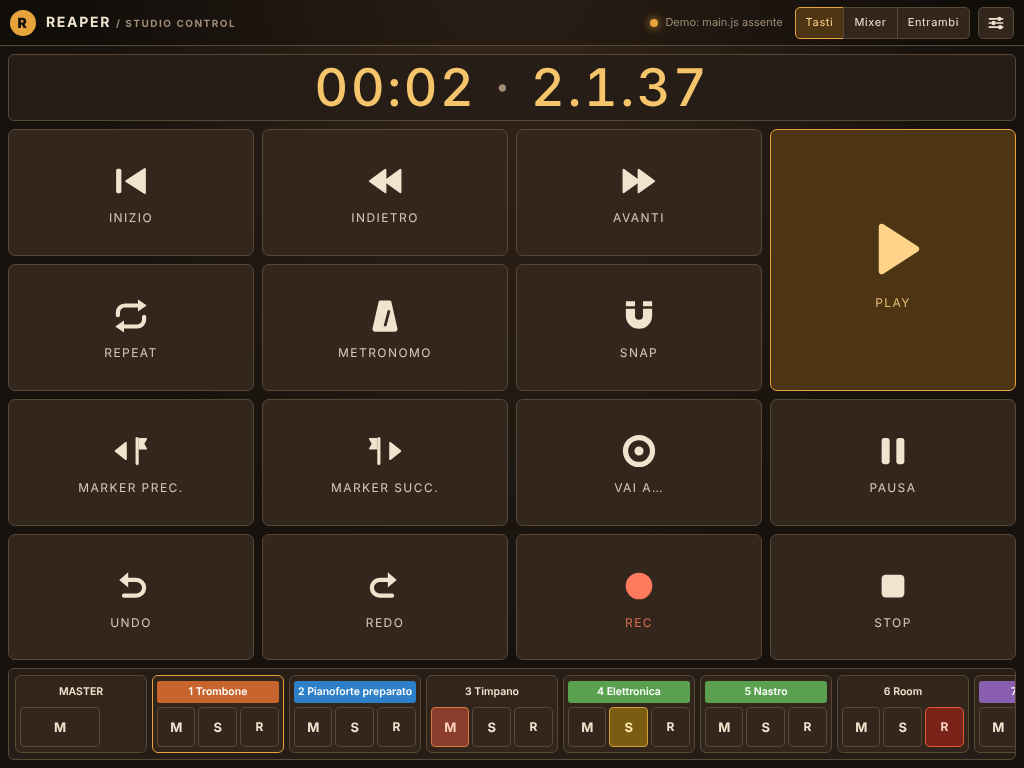
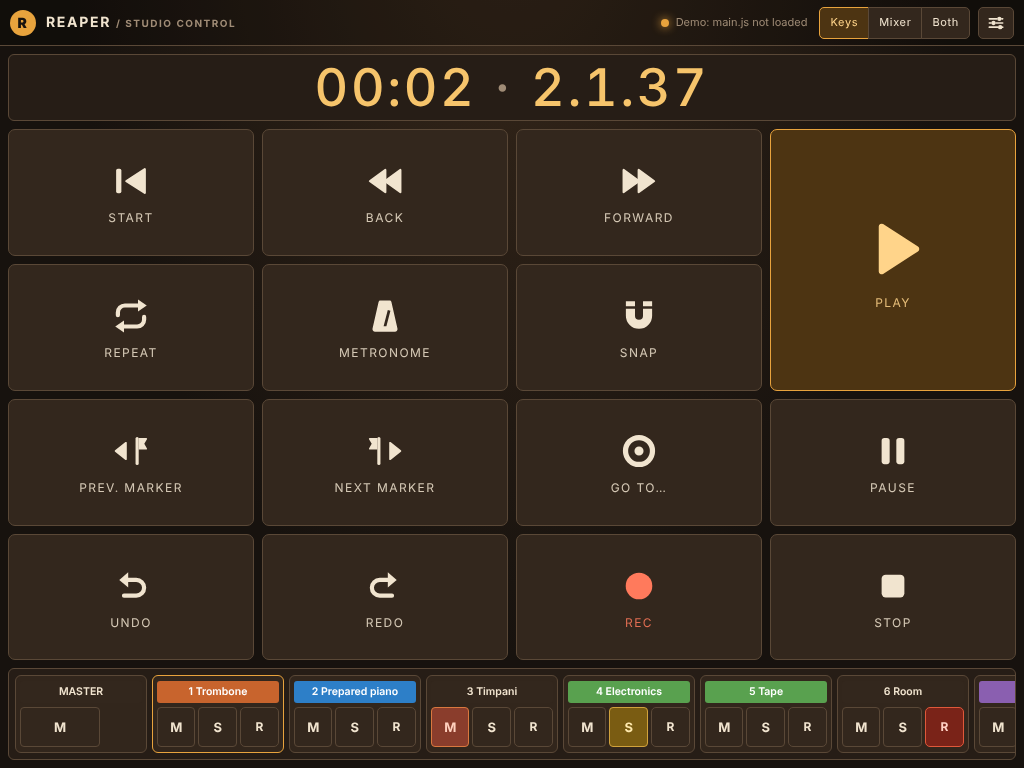
Add English/Italian language selector, English by default
The interface was Italian only. Strings now live in a STR table, the
language is chosen in Settings and stored with the configuration.
Screenshots regenerated, README and touch tests updated.

Claude-Session: https://claude.ai/code/session_01EFGUDhjXSJhFr7wHMCkzkm

diff --git a/reaper-studio-control.html b/reaper-studio-control.html
@@ -1,5 +1,5 @@
 <!doctype html>
-<html lang="it">
+<html lang="en">
 <head>
 <meta charset="utf-8">
 <meta name="viewport" content="width=device-width,initial-scale=1,maximum-scale=1,user-scalable=no,viewport-fit=cover">
@@ -224,9 +224,9 @@ body.view-both .lbl{letter-spacing:.03em}
 <header class="top">
  <div class="brand"><div class="brandmark">R</div><div class="brandtx">REAPER <span class="sub">/ STUDIO CONTROL</span></div></div>
  <div class="topright">
-  <span class="dot" id="connDot"></span><span class="conntext" id="connText">In attesa di REAPER</span>
-  <div class="seg" id="viewSeg"><button data-view="keys">Tasti</button><button data-view="mixer">Mixer</button><button data-view="both">Entrambi</button></div>
-  <button class="iconbtn" id="gearBtn" title="Impostazioni"><svg viewBox="0 0 24 24"><path d="M4 7h9M19 7h1M4 12h2M12 12h8M4 17h10M20 17h0" fill="none" stroke="currentColor" stroke-width="2" stroke-linecap="round"/><circle cx="16" cy="7" r="2.6"/><circle cx="9" cy="12" r="2.6"/><circle cx="17" cy="17" r="2.6"/></svg></button>
+  <span class="dot" id="connDot"></span><span class="conntext" id="connText">Waiting for REAPER</span>
+  <div class="seg" id="viewSeg"><button data-view="keys">Keys</button><button data-view="mixer">Mixer</button><button data-view="both">Both</button></div>
+  <button class="iconbtn" id="gearBtn" title="Settings"><svg viewBox="0 0 24 24"><path d="M4 7h9M19 7h1M4 12h2M12 12h8M4 17h10M20 17h0" fill="none" stroke="currentColor" stroke-width="2" stroke-linecap="round"/><circle cx="16" cy="7" r="2.6"/><circle cx="9" cy="12" r="2.6"/><circle cx="17" cy="17" r="2.6"/></svg></button>
  </div>
 </header>
 <main>
@@ -243,10 +243,10 @@ body.view-both .lbl{letter-spacing:.03em}
 
 <div class="sheet" id="settings"><div class="card" id="settingsCard"></div></div>
 <div class="sheet" id="gotoDlg"><div class="dlg">
- <strong>Vai a…</strong>
+ <strong>Go to…</strong>
  <input type="text" id="gotoIn" autocomplete="off" autocapitalize="off" autocorrect="off" spellcheck="false" placeholder="1:02.500">
- <div class="note">Tempo (1:02.500) oppure battuta (12.1.00).</div>
- <div class="btnrow"><button class="tbtn active" id="gotoOk">Vai</button><button class="tbtn" id="gotoNo">Annulla</button></div>
+ <div class="note">Time (1:02.500) or bar position (12.1.00).</div>
+ <div class="btnrow"><button class="tbtn active" id="gotoOk">Go</button><button class="tbtn" id="gotoNo">Cancel</button></div>
 </div></div>
 
 <script>
@@ -260,26 +260,31 @@ body.view-both .lbl{letter-spacing:.03em}
    Per aggiungere un'azione al menu basta una riga qui e, se serve, un'icona in ICON.
    ============================================================ */
 var CAT={
- start:{id:40042,l:'Inizio'},
- end:{id:40043,l:'Fine'},
+ start:{id:40042,l:'Start'},
+ end:{id:40043,l:'End'},
  stop:{id:40667,l:'Stop'},
- pause:{id:1008,l:'Pausa'},
+ pause:{id:1008,l:'Pause'},
  play:{id:1007,l:'Play'},
  playstop:{id:40044,l:'Play/Stop'},
  rec:{id:1013,l:'Rec'},
- back:{id:41043,l:'Indietro',t:'Cursore indietro di una battuta'},
- fwd:{id:41042,l:'Avanti',t:'Cursore avanti di una battuta'},
+ back:{id:41043,l:'Back',t:'Move the cursor back one bar'},
+ fwd:{id:41042,l:'Forward',t:'Move the cursor forward one bar'},
  repeat:{id:1068,l:'Repeat'},
  undo:{id:40029,l:'Undo'},
  redo:{id:40030,l:'Redo'},
- metro:{id:40364,l:'Metronomo',tg:1},
+ metro:{id:40364,l:'Metronome',tg:1},
  snap:{id:1157,l:'Snap',tg:1},
- mprev:{id:40172,l:'Marker prec.'},
- mnext:{id:40173,l:'Marker succ.'},
- addmarker:{id:40157,l:'Nuovo marker'},
- save:{id:40026,l:'Salva'},
- 'goto':{id:0,l:'Vai a…'}
+ mprev:{id:40172,l:'Prev. marker'},
+ mnext:{id:40173,l:'Next marker'},
+ addmarker:{id:40157,l:'New marker'},
+ save:{id:40026,l:'Save'},
+ 'goto':{id:0,l:'Go to…'}
 };
+/* etichette e suggerimenti in italiano: le voci mancanti restano uguali all'inglese */
+var IT={start:'Inizio',end:'Fine',pause:'Pausa',back:'Indietro',fwd:'Avanti',metro:'Metronomo',mprev:'Marker prec.',mnext:'Marker succ.',addmarker:'Nuovo marker',save:'Salva','goto':'Vai a…'};
+var ITT={back:'Cursore indietro di una battuta',fwd:'Cursore avanti di una battuta'};
+function catL(a){return cfg.lang==='it'&&IT[a]?IT[a]:CAT[a].l;}
+function catT(a){return cfg.lang==='it'&&ITT[a]?ITT[a]:(CAT[a].t||catL(a));}
 var MARKER='<path d="M9.6 7.3v9.4a.5.5 0 0 1-.78.42L2.9 12.4a.5.5 0 0 1 0-.8l5.92-4.72a.5.5 0 0 1 .78.42z"/><rect x="14.6" y="4" width="1.8" height="16" rx=".9"/><path d="M16.4 4.6h4.4a.4.4 0 0 1 .33.63L19.6 7.9l1.53 2.67a.4.4 0 0 1-.33.6h-4.4z"/>';
 var START='<rect x="3.5" y="5" width="3" height="14" rx="1"/><path d="M20.5 5.2v13.6a.6.6 0 0 1-.95.5L9 12.5a.6.6 0 0 1 0-1l10.55-6.8a.6.6 0 0 1 .95.5z"/>';
 var FLIP='<g transform="translate(24 0) scale(-1 1)">';
@@ -317,7 +322,7 @@ function defaults(){return{
  counter:'both',    /* both | time | beat */
  sw:'m',            /* larghezza strisce: s | m | l */
  maxdb:12,          /* fondo scala del fader: 12 oppure 6 */
- ver:2,master:1,meters:1,pan:1,arm:1,colors:1,hidden:0,
+ ver:2,lang:'en',master:1,meters:1,pan:1,arm:1,colors:1,hidden:0,
  cols:4,strip:1,recConfirm:0,
  keys:[{a:'start'},{a:'back'},{a:'fwd'},{a:'play',big:1},{a:'repeat'},{a:'metro'},{a:'snap'},
        {a:'mprev'},{a:'mnext'},{a:'goto'},{a:'pause'},{a:'undo'},{a:'redo'},{a:'rec'},{a:'stop'}]
@@ -330,6 +335,34 @@ function loadCfg(){var d=defaults(),s,k;try{s=JSON.parse(localStorage.getItem(LS
 function mergeCfg(d,s){var k;if(s&&typeof s==='object'){for(k in d)if(d.hasOwnProperty(k)&&s[k]!==undefined&&typeof s[k]===typeof d[k])d[k]=s[k];}
  if(!(d.keys instanceof Array)||!d.keys.length)d.keys=defaults().keys;return d;}
 function saveCfg(){try{localStorage.setItem(LS,JSON.stringify(cfg));}catch(e){}}
+
+/* testi dell'interfaccia: [inglese, italiano]. Per aggiungere una lingua basta una terza voce in ogni riga. */
+var STR={
+ waiting:['Waiting for REAPER','In attesa di REAPER'],connected:['Connected to REAPER','Collegato a REAPER'],
+ demo:['Demo: main.js not loaded','Demo: main.js assente'],noreply:['REAPER not responding','REAPER non risponde'],
+ vKeys:['Keys','Tasti'],vMixer:['Mixer','Mixer'],vBoth:['Both','Entrambi'],
+ settings:['Settings','Impostazioni'],close:['Close','Chiudi'],
+ gotoT:['Go to…','Vai a…'],gotoNote:['Time (1:02.500) or bar position (12.1.00).','Tempo (1:02.500) oppure battuta (12.1.00).'],go:['Go','Vai'],cancel:['Cancel','Annulla'],
+ noTracks:['No tracks to show.','Nessuna traccia da mostrare.'],track:['Track ','Traccia '],
+ panL:['Pan, left channel','Pan del canale sinistro'],panR:['Pan, right channel','Pan del canale destro'],pan:['Pan','Pan'],balance:['Balance','Balance'],width:['Width','Width'],
+ actionT:['Action ','Azione '],
+ secLook:['Appearance','Aspetto'],lang:['Language','Lingua'],view:['View','Vista'],theme:['Theme','Tema'],
+ themeAmber:['Tape Amber','Tape Ambra'],themeGraphite:['Graphite','Grafite'],themeLight:['Light','Chiaro'],
+ counter:['Counter','Contatore'],cBoth:['Time and bars','Tempo e battute'],cTime:['Time only','Solo tempo'],cBeat:['Bars only','Solo battute'],
+ secMixer:['Mixer','Mixer'],stripW:['Strip width','Larghezza delle strisce'],narrow:['Narrow','Stretta'],medium:['Medium','Media'],wide:['Wide','Larga'],
+ faderMax:['Fader maximum','Fondo scala del fader'],master:['Master','Master'],meters:['Meters','Meter'],panCtl:['Pan controls','Controlli di pan'],
+ armBtn:['Rec arm button','Pulsante Rec arm'],colors:['Track colours','Colori delle tracce'],hidden:['Show tracks hidden from the mixer','Mostra le tracce nascoste dal mixer'],
+ secKeypad:['Keypad','Tastierino'],cols:['Columns','Colonne'],strip:['M / S / R track strip below the keys','Striscia tracce M / S / R sotto i tasti'],recConf:['Rec needs a second tap','Rec richiede un secondo tocco'],
+ secKeys:['Keys','Tasti'],custom:['Custom action…','Azione personalizzata…'],big:['Large','Grande'],label:['Label','Etichetta'],
+ cmdNote:['Find the Command ID in REAPER\'s action list: right-click the action and choose "Copy selected action command ID". Script IDs, which start with an underscore, work too.',
+  'Il Command ID si legge in REAPER, nella lista delle azioni (clic destro sull\'azione, «Copy selected action command ID»). Funzionano anche gli ID testuali degli script, che cominciano con il trattino basso.'],
+ addKey:['Add a key','Aggiungi un tasto'],resetKeys:['Reset the keys','Ripristina i tasti'],
+ secConfig:['Configuration','Configurazione'],
+ cfgNote:['Settings are stored on this device. To move them to another one, copy the text below and paste it into the same box on the other device.',
+  'Le impostazioni restano su questo dispositivo. Per portarle su un altro, copiare il testo qui sotto e incollarlo nella stessa casella dell\'altro dispositivo.'],
+ applyText:['Apply the text','Applica il testo'],resetAll:['Reset everything','Ripristina tutto'],fullscreen:['Full screen','Schermo intero'],badText:['Invalid text: ','Testo non valido: ']
+};
+function T(k){var s=STR[k];return s?s[cfg.lang==='it'?1:0]:k;}
 
 /* ============================================================
    3. UTILITA'
@@ -360,9 +393,9 @@ function meterPct(tenthDb){return clamp((tenthDb/10+60)/66*100,0,100);}   /* sca
    4. COMUNICAZIONE CON REAPER (main.js del Web Control)
    ============================================================ */
 var demo=(typeof wwr_req!=='function');
-var lastReply=0,connOk=null,polled=[],needReload=false,demoTimers=[];
+var lastReply=0,connOk=null,connKey='waiting',polled=[],needReload=false,demoTimers=[];
 function cmd(s){if(demo)demoCmd(String(s));else wwr_req(String(s));}
-function setConn(ok,msg){if(connOk===ok&&$('connText').textContent===msg)return;connOk=ok;tog($('connDot'),'ok',ok);$('connText').textContent=msg;}
+function setConn(ok,key){if(connOk===ok&&connKey===key)return;connOk=ok;connKey=key;tog($('connDot'),'ok',ok);$('connText').textContent=T(key);}
 
 function tracksWanted(){return cfg.view!=='keys'||cfg.strip;}
 function setupPolling(){
@@ -387,7 +420,7 @@ function setupPolling(){
 var ps=0,rep=false,cmdState={};
 window.wwr_onreply=function(res){
  var lines=res.split('\n'),i,t,list=null;
- lastReply=now();setConn(true,demo?'Demo: main.js assente':'Collegato a REAPER');
+ lastReply=now();setConn(true,demo?'demo':'connected');
  for(i=0;i<lines.length;i++){t=lines[i].split('\t');
   if(t[0]==='TRANSPORT'&&t.length>4){ps=+t[1];rep=(+t[3])!==0;setCounter(+t[2],t[5]||'');}
   else if(t[0]==='TRACK'&&t.length>4){(list||(list=[])).push({id:+t[1],name:unesc(t[2]||''),flags:+t[3]||0,vol:+t[4]||0,pan:+t[5]||0,
@@ -397,7 +430,7 @@ window.wwr_onreply=function(res){
  refreshKeys();
  if(list)updateTracks(list);   /* la lista arriva intera: le tracce cancellate spariscono da sole */
 };
-setInterval(function(){if(!demo&&lastReply&&now()-lastReply>3000)setConn(false,'REAPER non risponde');},1000);
+setInterval(function(){if(!demo&&lastReply&&now()-lastReply>3000)setConn(false,'noreply');},1000);
 
 /* ============================================================
    5. CONTATORE
@@ -415,8 +448,8 @@ function setCounter(sec,beat){
    ============================================================ */
 var keysEl=$('keys'),miniEl=$('miniT'),recAsk=0;
 function keyInfo(k){
- if(k.a==='custom')return{a:'custom',id:k.id||'',l:k.l||k.id||'?',ic:'custom',t:'Azione '+(k.id||'')};
- var c=CAT[k.a]||CAT.stop;return{a:CAT[k.a]?k.a:'stop',id:c.id,l:c.l,ic:CAT[k.a]?k.a:'stop',t:c.t||c.l};
+ if(k.a==='custom')return{a:'custom',id:k.id||'',l:k.l||k.id||'?',ic:'custom',t:T('actionT')+(k.id||'')};
+ var c=CAT[k.a]||CAT.stop;var a=CAT[k.a]?k.a:'stop';return{a:a,id:c.id,l:catL(a),ic:a,t:catT(a)};
 }
 function keyHtml(k,attr,withLabel){
  var c=keyInfo(k),cls='key'+(k.big?' big':'')+(c.a==='rec'?' rec':'')+(c.a==='pause'?' pausekey':'');
@@ -508,7 +541,7 @@ function updateTracks(all){
   stripOrder=order;stripsEl.innerHTML='';
   var old=S;S={};
   for(i=0;i<list.length;i++){s=old[list[i].id]||buildStrip(list[i]);S[list[i].id]=s;stripsEl.appendChild(s.el);}
-  if(!list.length)stripsEl.innerHTML='<div class="empty">Nessuna traccia da mostrare.</div>';
+  if(!list.length)stripsEl.innerHTML='<div class="empty">'+T('noTracks')+'</div>';
  }
  for(i=0;i<list.length;i++)updateStrip(S[list[i].id],list[i]);
 }
@@ -516,7 +549,7 @@ function setVolUI(s,v){var p=volToPos(v);s.thumb.style.top=((1-p)*100).toFixed(2
 function setPanUI(s,type,v){var i=type==='pan2'?1:0,r='rotate('+(v*135).toFixed(1)+'deg)';s.knobi[i].style.webkitTransform=r;s.knobi[i].style.transform=r;s.panv[i].textContent=knobText(type,v,s.L.pm);}
 function updateStrip(s,t){
  var L=s.L,nm,free=!(drags.busy[t.id])&&!(hold[t.id]>now()),c,v;
- nm=t.id===0?'MASTER':(t.id+'  '+(t.name||'Traccia '+t.id));
+ nm=t.id===0?'MASTER':(t.id+'  '+(t.name||T('track')+t.id));
  if(L.name!==nm){L.name=nm;s.name.textContent=nm;s.name.title=nm;}
  c=cfg.colors?(t.color&0xffffff):0;
  if(L.color!==c){L.color=c;
@@ -525,8 +558,8 @@ function updateStrip(s,t){
  if(L.flags!==t.flags){L.flags=t.flags;tog(s.el,'sel',t.flags&2);tog(s.bM,'active',t.flags&8);tog(s.bS,'active',t.flags&48);tog(s.arm,'active',t.flags&64);}
  if(free&&L.vol!==t.vol){L.vol=t.vol;setVolUI(s,t.vol);}
  if(L.pm!==t.pm){L.pm=t.pm;tog(s.el,'pm2',t.pm!==3);L.pan=L.pan2=null;
-  s.panv[0].parentNode.title=t.pm===6?'Pan del canale sinistro':(t.pm===5?'Pan':'Balance');
-  s.panv[1].parentNode.title=t.pm===6?'Pan del canale destro':'Width';}
+  s.panv[0].parentNode.title=t.pm===6?T('panL'):(t.pm===5?T('pan'):T('balance'));
+  s.panv[1].parentNode.title=t.pm===6?T('panR'):T('width');}
  if(free&&L.pan!==t.pan){L.pan=t.pan;setPanUI(s,'pan',t.pan);}
  if(free&&t.pm!==3&&L.pan2!==t.pan2){L.pan2=t.pan2;setPanUI(s,'pan2',t.pan2);}
  if(cfg.meters&&cfg.view!=='keys'){
@@ -622,46 +655,47 @@ function sel(key,opts){var h='<select data-k="'+key+'">',i;for(i=0;i<opts.length
 function chk(key){return '<input type="checkbox" data-k="'+key+'"'+(cfg[key]?' checked':'')+'>';}
 function row(label,ctl){return '<label class="row"><span>'+label+'</span>'+ctl+'</label>';}
 function renderSettings(){
- var h='<div class="cardhead"><h2>Impostazioni</h2><button class="tbtn active" data-act="close">Chiudi</button></div>',i,k,a,fs=document.documentElement;
- h+='<h3>Aspetto</h3>';
- h+=row('Vista',sel('view',[['keys','Tasti'],['mixer','Mixer'],['both','Entrambi']]));
- h+=row('Tema',sel('theme',[['ambra','Tape Ambra'],['grafite','Grafite'],['chiaro','Chiaro']]));
- h+=row('Contatore',sel('counter',[['both','Tempo e battute'],['time','Solo tempo'],['beat','Solo battute']]));
- h+='<h3>Mixer</h3>';
- h+=row('Larghezza delle strisce',sel('sw',[['s','Stretta'],['m','Media'],['l','Larga']]));
- h+=row('Fondo scala del fader',sel('maxdb',[[12,'+12 dB'],[6,'+6 dB']]));
- h+=row('Master',chk('master'));
- h+=row('Meter',chk('meters'));
- h+=row('Controlli di pan',chk('pan'));
- h+=row('Pulsante Rec arm',chk('arm'));
- h+=row('Colori delle tracce',chk('colors'));
- h+=row('Mostra le tracce nascoste dal mixer',chk('hidden'));
- h+='<h3>Tastierino</h3>';
- h+=row('Colonne',sel('cols',[[3,'3'],[4,'4'],[5,'5'],[6,'6']]));
- h+=row('Striscia tracce M / S / R sotto i tasti',chk('strip'));
- h+=row('Rec richiede un secondo tocco',chk('recConfirm'));
- h+='<h3>Tasti</h3>';
+ var h='<div class="cardhead"><h2>'+T('settings')+'</h2><button class="tbtn active" data-act="close">'+T('close')+'</button></div>',i,k,a,fs=document.documentElement;
+ h+='<h3>'+T('secLook')+'</h3>';
+ h+=row(T('lang'),sel('lang',[['en','English'],['it','Italiano']]));
+ h+=row(T('view'),sel('view',[['keys',T('vKeys')],['mixer',T('vMixer')],['both',T('vBoth')]]));
+ h+=row(T('theme'),sel('theme',[['ambra',T('themeAmber')],['grafite',T('themeGraphite')],['chiaro',T('themeLight')]]));
+ h+=row(T('counter'),sel('counter',[['both',T('cBoth')],['time',T('cTime')],['beat',T('cBeat')]]));
+ h+='<h3>'+T('secMixer')+'</h3>';
+ h+=row(T('stripW'),sel('sw',[['s',T('narrow')],['m',T('medium')],['l',T('wide')]]));
+ h+=row(T('faderMax'),sel('maxdb',[[12,'+12 dB'],[6,'+6 dB']]));
+ h+=row(T('master'),chk('master'));
+ h+=row(T('meters'),chk('meters'));
+ h+=row(T('panCtl'),chk('pan'));
+ h+=row(T('armBtn'),chk('arm'));
+ h+=row(T('colors'),chk('colors'));
+ h+=row(T('hidden'),chk('hidden'));
+ h+='<h3>'+T('secKeypad')+'</h3>';
+ h+=row(T('cols'),sel('cols',[[3,'3'],[4,'4'],[5,'5'],[6,'6']]));
+ h+=row(T('strip'),chk('strip'));
+ h+=row(T('recConf'),chk('recConfirm'));
+ h+='<h3>'+T('secKeys')+'</h3>';
  for(i=0;i<cfg.keys.length;i++){k=cfg.keys[i];
   h+='<div class="krow"><span class="kn">'+(i+1)+'</span><select data-ki="'+i+'" data-f="a">';
-  for(a in CAT)if(CAT.hasOwnProperty(a))h+='<option value="'+a+'"'+(k.a===a?' selected':'')+'>'+esc(CAT[a].l)+'</option>';
-  h+='<option value="custom"'+(k.a==='custom'?' selected':'')+'>Azione personalizzata…</option></select>';
-  h+='<label><input type="checkbox" data-ki="'+i+'" data-f="big"'+(k.big?' checked':'')+'>Grande</label>';
+  for(a in CAT)if(CAT.hasOwnProperty(a))h+='<option value="'+a+'"'+(k.a===a?' selected':'')+'>'+esc(catL(a))+'</option>';
+  h+='<option value="custom"'+(k.a==='custom'?' selected':'')+'>'+T('custom')+'</option></select>';
+  h+='<label><input type="checkbox" data-ki="'+i+'" data-f="big"'+(k.big?' checked':'')+'>'+T('big')+'</label>';
   h+='<button class="mini" data-act="up" data-ki="'+i+'">↑</button><button class="mini" data-act="down" data-ki="'+i+'">↓</button><button class="mini" data-act="del" data-ki="'+i+'">✕</button>';
-  if(k.a==='custom')h+='<div class="cust"><input type="text" data-ki="'+i+'" data-f="id" placeholder="Command ID" value="'+esc(k.id||'')+'" autocapitalize="off" autocorrect="off" spellcheck="false"><input type="text" data-ki="'+i+'" data-f="l" placeholder="Etichetta" value="'+esc(k.l||'')+'"></div>';
+  if(k.a==='custom')h+='<div class="cust"><input type="text" data-ki="'+i+'" data-f="id" placeholder="Command ID" value="'+esc(k.id||'')+'" autocapitalize="off" autocorrect="off" spellcheck="false"><input type="text" data-ki="'+i+'" data-f="l" placeholder="'+T('label')+'" value="'+esc(k.l||'')+'"></div>';
   h+='</div>';}
- h+='<div class="note">Il Command ID si legge in REAPER, nella lista delle azioni (clic destro sull\'azione, «Copy selected action command ID»). Funzionano anche gli ID testuali degli script, che cominciano con il trattino basso.</div>';
- h+='<div class="btnrow"><button class="tbtn" data-act="add">Aggiungi un tasto</button><button class="tbtn" data-act="keysreset">Ripristina i tasti</button></div>';
- h+='<h3>Configurazione</h3><div class="note">Le impostazioni restano su questo dispositivo. Per portarle su un altro, copiare il testo qui sotto e incollarlo nella stessa casella dell\'altro dispositivo.</div>';
+ h+='<div class="note">'+T('cmdNote')+'</div>';
+ h+='<div class="btnrow"><button class="tbtn" data-act="add">'+T('addKey')+'</button><button class="tbtn" data-act="keysreset">'+T('resetKeys')+'</button></div>';
+ h+='<h3>'+T('secConfig')+'</h3><div class="note">'+T('cfgNote')+'</div>';
  h+='<textarea id="cfgText" autocapitalize="off" autocorrect="off" spellcheck="false">'+esc(JSON.stringify(cfg))+'</textarea>';
- h+='<div class="btnrow"><button class="tbtn" data-act="import">Applica il testo</button><button class="tbtn" data-act="reset">Ripristina tutto</button>';
- if(fs.requestFullscreen||fs.webkitRequestFullscreen)h+='<button class="tbtn" data-act="full">Schermo intero</button>';
+ h+='<div class="btnrow"><button class="tbtn" data-act="import">'+T('applyText')+'</button><button class="tbtn" data-act="reset">'+T('resetAll')+'</button>';
+ if(fs.requestFullscreen||fs.webkitRequestFullscreen)h+='<button class="tbtn" data-act="full">'+T('fullscreen')+'</button>';
  h+='</div>';
  var top=card.scrollTop;card.innerHTML=h;card.scrollTop=top;
 }
 function closeSettings(){tog($('settings'),'open',false);if(needReload)location.reload();}
 card.addEventListener('change',function(e){
  var t=e.target,k=t.getAttribute('data-k'),ki=t.getAttribute('data-ki'),f=t.getAttribute('data-f'),v;
- if(k){v=t.type==='checkbox'?(t.checked?1:0):t.value;if(typeof cfg[k]==='number')v=+v;cfg[k]=v;saveCfg();applyCfg();return;}
+ if(k){v=t.type==='checkbox'?(t.checked?1:0):t.value;if(typeof cfg[k]==='number')v=+v;cfg[k]=v;saveCfg();applyCfg();if(k==='lang')renderSettings();return;}
  if(ki!==null&&f){ki=+ki;
   if(f==='a'){cfg.keys[ki].a=t.value;}
   else if(f==='big'){if(t.checked)cfg.keys[ki].big=1;else delete cfg.keys[ki].big;}
@@ -681,7 +715,7 @@ card.addEventListener('click',function(e){
  else if(a==='add'){k.push({a:'save'});}
  else if(a==='keysreset'){cfg.keys=defaults().keys;}
  else if(a==='reset'){cfg=defaults();}
- else if(a==='import'){try{cfg=mergeCfg(defaults(),JSON.parse($('cfgText').value));}catch(err){$('cfgText').value='Testo non valido: '+err.message;return;}}
+ else if(a==='import'){try{cfg=mergeCfg(defaults(),JSON.parse($('cfgText').value));}catch(err){$('cfgText').value=T('badText')+err.message;return;}}
  saveCfg();applyCfg();renderSettings();
 });
 $('settings').addEventListener('click',function(e){if(e.target===this)closeSettings();});
@@ -692,8 +726,17 @@ $('viewSeg').addEventListener('click',function(e){var v=e.target.getAttribute('d
    9. APPLICAZIONE DELLA CONFIGURAZIONE E AVVIO
    ============================================================ */
 var lastMaxdb=null;
+function refreshStatic(){
+ var seg=$('viewSeg').children,d=$('gotoDlg');
+ document.documentElement.lang=cfg.lang==='it'?'it':'en';
+ seg[0].textContent=T('vKeys');seg[1].textContent=T('vMixer');seg[2].textContent=T('vBoth');
+ $('gearBtn').title=T('settings');$('connText').textContent=T(connKey);
+ d.querySelector('strong').textContent=T('gotoT');d.querySelector('.note').textContent=T('gotoNote');
+ $('gotoOk').textContent=T('go');$('gotoNo').textContent=T('cancel');
+}
 function applyCfg(){
  var b=document.body,seg=$('viewSeg').children,i,id;
+ refreshStatic();
  b.className='theme-'+cfg.theme+' view-'+cfg.view+' sw-'+cfg.sw+' cnt-'+cfg.counter+
   (cfg.meters?'':' no-meters')+(cfg.pan?'':' no-pan')+(cfg.arm?'':' no-arm')+(cfg.strip?'':' no-strip');
  for(i=0;i<seg.length;i++)tog(seg[i],'active',seg[i].getAttribute('data-view')===cfg.view);
@@ -712,9 +755,9 @@ window.addEventListener('orientationchange',function(){setTimeout(fit,300);});
    Si attiva se main.js non e' stato caricato (file aperto fuori da REAPER):
    serve a provare l'interfaccia e a preparare la configurazione.
    ============================================================ */
-var DT=[{n:'MASTER',f:0,v:1,p:0,w:1,m:3,c:0},{n:'Trombone',f:2,v:0.71,p:0,w:1,m:3,c:0x01c8642d},{n:'Pianoforte preparato',f:0,v:1,p:-0.2,w:0.6,m:5,c:0x012d7fc8},
- {n:'Timpano',f:8,v:0.5,p:0.3,w:1,m:3,c:0},{n:'Elettronica',f:16,v:1.4,p:-1,w:1,m:6,c:0x0159a14f},{n:'Nastro',f:0,v:1.4,p:-0.4,w:0.7,m:6,c:0x0159a14f},
- {n:'Room',f:64,v:0.25,p:0,w:1,m:5,c:0},{n:'Riverbero',f:0,v:0.6,p:0,w:1,m:0,c:0x018a5fb0}],dPos=0,dPs=0,dRep=0,dCmd={},dLast=now();
+var DT=[{n:'MASTER',f:0,v:1,p:0,w:1,m:3,c:0},{n:'Trombone',f:2,v:0.71,p:0,w:1,m:3,c:0x01c8642d},{n:'Prepared piano',f:0,v:1,p:-0.2,w:0.6,m:5,c:0x012d7fc8},
+ {n:'Timpani',f:8,v:0.5,p:0.3,w:1,m:3,c:0},{n:'Electronics',f:16,v:1.4,p:-1,w:1,m:6,c:0x0159a14f},{n:'Tape',f:0,v:1.4,p:-0.4,w:0.7,m:6,c:0x0159a14f},
+ {n:'Room',f:64,v:0.25,p:0,w:1,m:5,c:0},{n:'Reverb',f:0,v:0.6,p:0,w:1,m:0,c:0x018a5fb0}],dPos=0,dPs=0,dRep=0,dCmd={},dLast=now();
 function demoCmd(q){
  var parts=q.split(';'),out='',i,m,t,k,bit,tt=now();
  if(dPs===1||dPs===5)dPos+=(tt-dLast)/1000;dLast=tt;

diff --git a/tools/test_demo.py b/tools/test_demo.py
@@ -97,6 +97,30 @@ async def main():
         failed += not ok
         print(("ok   " if ok else "FAIL ") + "fader double tap returns to 0.0  got " + db)
 
+        # language: English by default, Italian from the settings, kept after a reload
+        async def texts():
+            seg = await page.locator("#viewSeg button").all_inner_texts()
+            return seg, await page.locator("#connText").inner_text(), await page.locator("#gearBtn").get_attribute("title")
+
+        seg, conn, gear = await texts()
+        ok = seg == ["Keys", "Mixer", "Both"] and conn == "Demo: main.js not loaded" and gear == "Settings"
+        failed += not ok
+        print(("ok   " if ok else "FAIL ") + "default language is English  got", seg, conn, gear)
+        await page.click("#gearBtn")
+        await page.select_option('select[data-k="lang"]', "it")
+        await page.wait_for_timeout(300)
+        seg, conn, gear = await texts()
+        title = await page.locator("#settingsCard h2").inner_text()
+        ok = seg == ["Tasti", "Mixer", "Entrambi"] and conn == "Demo: main.js assente" and gear == "Impostazioni" and title == "Impostazioni"
+        failed += not ok
+        print(("ok   " if ok else "FAIL ") + "switching to Italian updates the page and the open settings  got", seg, conn, gear, title)
+        await page.reload()
+        await page.wait_for_timeout(600)
+        seg, conn, gear = await texts()
+        ok = seg == ["Tasti", "Mixer", "Entrambi"]
+        failed += not ok
+        print(("ok   " if ok else "FAIL ") + "Italian is kept after a reload  got", seg)
+
         print("page errors:", errors or "none")
         await browser.close()
         sys.exit(1 if failed or errors else 0)

diff --git a/README.md b/README.md
@@ -43,7 +43,8 @@ Knobs turn by vertical drag, as in REAPER. While a knob is moving, its value rep
 
 **Layout and appearance**
 - Three views: keypad, mixer, or both (side by side in landscape, stacked in portrait).
-- Three themes: Tape Ambra (default), Graphite, Light.
+- Three themes: Tape Amber (default), Graphite, Light.
+- English interface by default, Italian from the settings panel. The choice is stored on the device.
 - Narrow, medium and wide strips. Meters, pan, record arm, master and track colours can each be switched off.
 - Settings are stored on the device. To move a configuration to another device, copy the text from the settings panel and paste it there.
 
@@ -125,10 +126,10 @@ The page loads `main.js` from the same server, so there is nothing else to copy.
 
 ### 4. Check that it works
 
-- The dot at the top right is lit and the text reads **Collegato a REAPER** ("connected to REAPER").
+- The dot at the top right is lit and the text reads **Connected to REAPER**.
 - Press Play: the counter runs and the Play key lights up.
-- **Demo: main.js assente** means the page was not served by REAPER: see below.
-- **REAPER non risponde** means no reply has arrived for three seconds.
+- **Demo: main.js not loaded** means the page was not served by REAPER: see below.
+- **REAPER not responding** means no reply has arrived for three seconds.
 - In REAPER's dialog the **Server status** lines count requests and failed requests (404), which helps to see whether the device reaches the computer at all.
 
 ### Troubleshooting
@@ -138,7 +139,7 @@ The page loads `main.js` from the same server, so there is nothing else to copy.
 | The browser says it cannot connect, while `http://localhost:8080` works on the computer | The device cannot reach the computer | Check that the device is on the same Wi-Fi (not mobile data, a guest network or a VPN). Allow incoming connections for REAPER in the computer's firewall. Look in the router for an option called client isolation or AP isolation and turn it off. |
 | It worked yesterday and not today | The computer's address changed | Read the Access URL again in REAPER's dialog. A reserved address for the computer in the router avoids this. |
 | The browser searches the web or shows a security warning | The address was typed without `http://` and the browser tried `https` | Type the whole address starting with `http://`. REAPER's server does not speak `https`. |
-| The page shows **Demo: main.js assente** | The page was opened from a file or from an address that is not REAPER's server | Open it through the address in step 3. |
+| The page shows **Demo: main.js not loaded** | The page was opened from a file or from an address that is not REAPER's server | Open it through the address in step 3. |
 | An error page or a 404 in REAPER's server status | The file is not in `reaper_www_root`, or the name in the address differs | Check the folder and the spelling of the file name. |
 | The browser asks for a user name and password | They are set in REAPER | Enter them as set in the dialog. |
 
@@ -167,7 +168,7 @@ The page sends commands and polls state through the functions of REAPER's web in
 - The pan mode of a track can be read but not changed from the page, because the web interface has no command for it. Choose it in REAPER.
 - The fader law is a close approximation of REAPER's, not an exact copy. Values read the same at 0 dB and at the ends, and differ slightly in between.
 - No sends, FX, routing, or item and take editing. This is a transport and mixer remote.
-- The interface language is currently Italian (Tasti, Mixer, Entrambi, Impostazioni and the labels of the keys).
+- Only English and Italian are available. Adding a language means adding one more entry to each line of the `STR` table (and to `IT`/`ITT` for the key labels) in the HTML file.
 - Browsers older than iOS 10.3 cannot show the keypad, which relies on CSS Grid.
 
 ## Development
